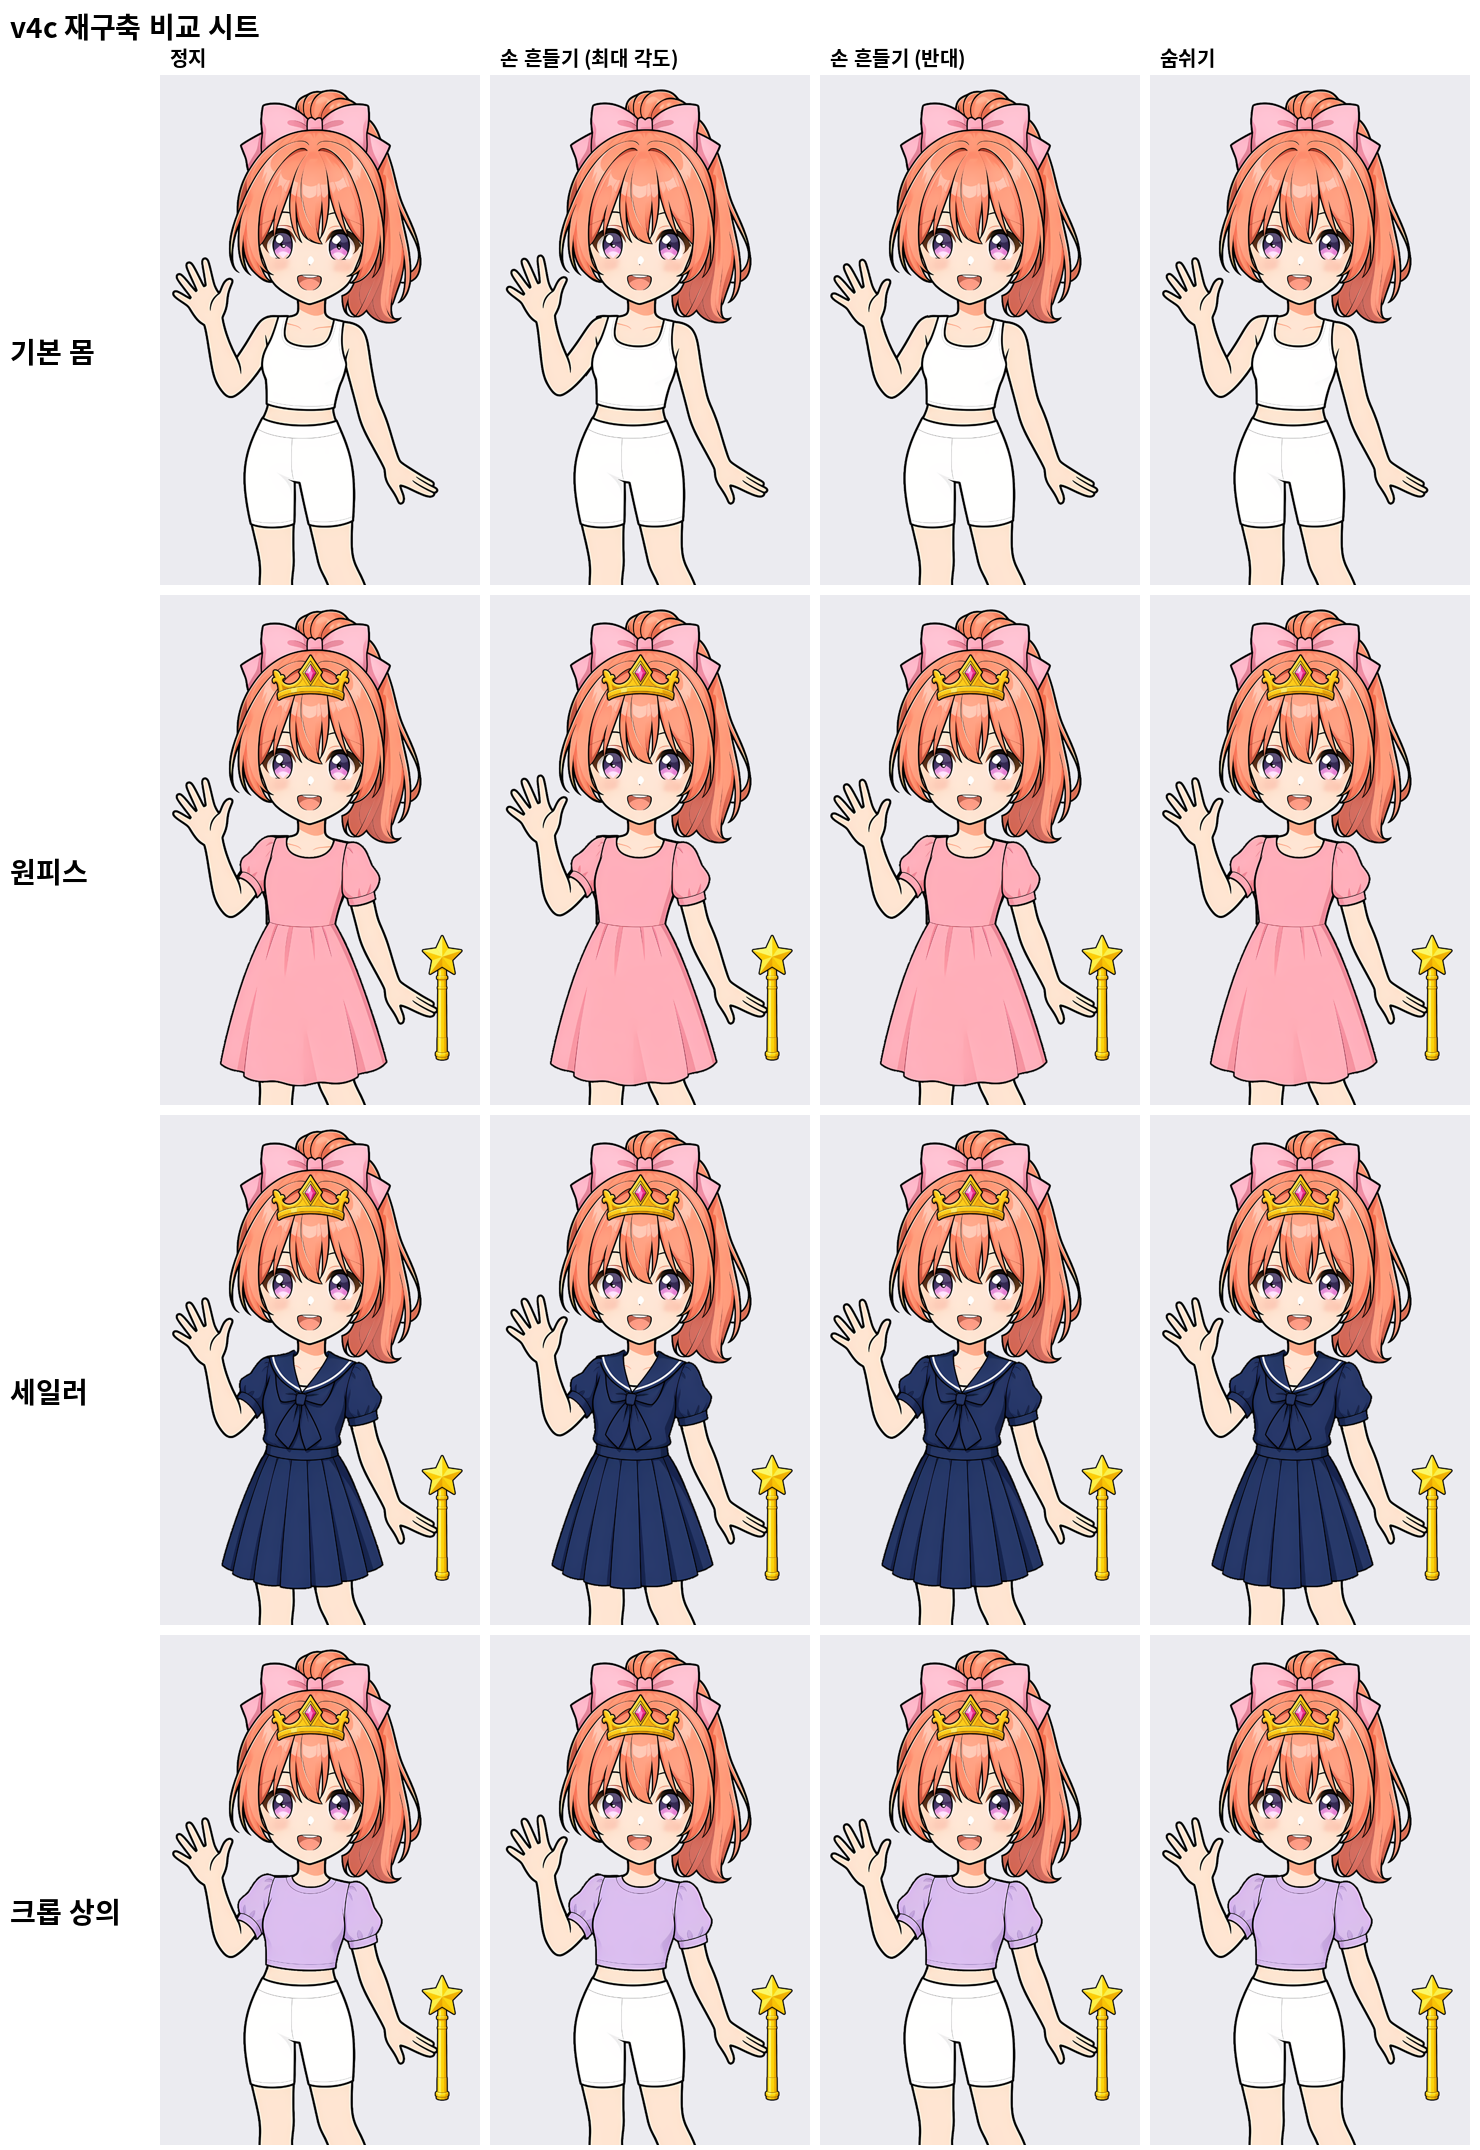
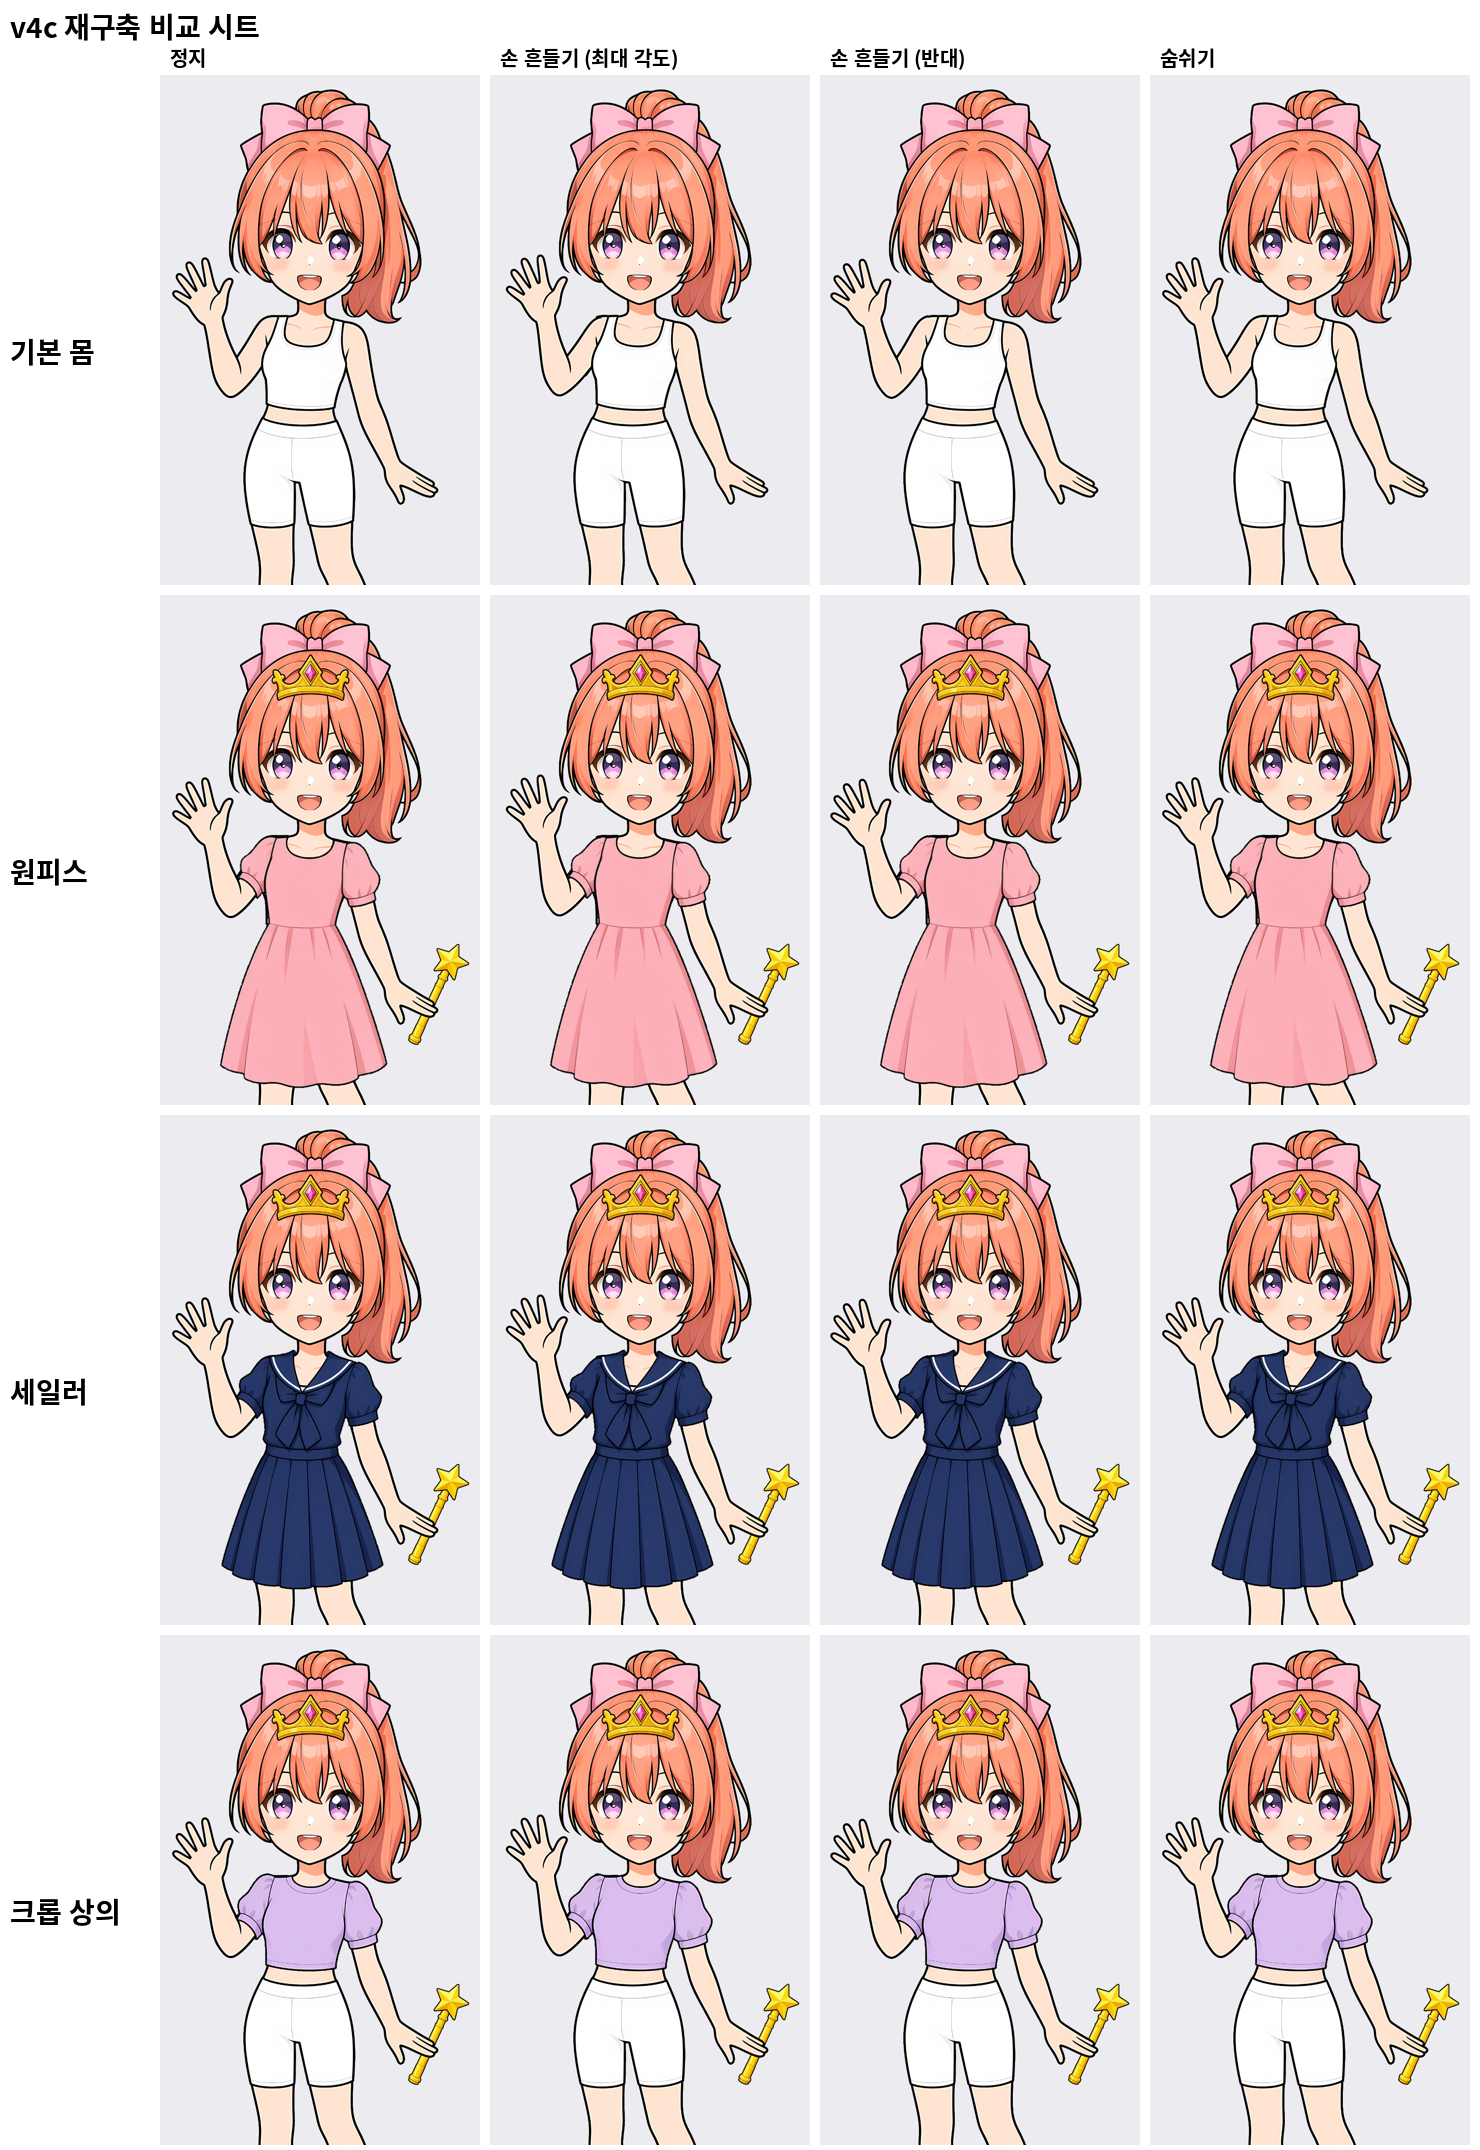
v4c: 400% 검수 qa7·전체 검사 결과 기록

diff --git a/public/v4c-demo/src/qa7/z7.py b/public/v4c-demo/src/qa7/z7.py
@@ -1,0 +1,16 @@
+from PIL import Image,ImageDraw,ImageFont
+fp='/usr/share/fonts/opentype/noto/NotoSansCJK-Bold.ttc';H=ImageFont.truetype(fp,40)
+Q=[('dress','wave_000','치맛단',(330,1060,530,1220)),('dress','wave_012','치맛단',(330,1060,530,1220)),('dress','idle_060','치맛단',(330,1060,530,1220)),
+('dress','wave_000','요술봉',(760,700,900,1000)),('dress','wave_012','요술봉',(760,700,900,1000)),('dress','wave_000','티아라',(430,130,650,260)),
+('none','wave_012','겨드랑이',(385,630,445,720)),('dress','wave_012','엄지',(300,455,390,545)),('dress','wave_012','소매',(340,600,480,720)),
+('top','wave_012','소매단',(340,600,480,720)),('crop','wave_012','소매단',(340,600,480,720)),('crop','wave_000','크롭 c27e 밑단',(330,800,700,960))]
+ims=[]
+for o,f,l,b in Q:
+  im=Image.new('RGB',(1100,1600),(255,0,255));x=Image.open(f'{o}_{f}.png').convert('RGBA');im.paste(x,(0,0),x)
+  ims.append((f'{o} {f} {l}',im.crop(b).resize(((b[2]-b[0])*4,(b[3]-b[1])*4),Image.NEAREST)))
+cols=3;import math;rows=math.ceil(len(ims)/cols)
+cw=max(i.width for _,i in ims)+30;rh=max(i.height for _,i in ims)+70
+S=Image.new('RGB',(cw*cols,rh*rows),(255,255,255));d=ImageDraw.Draw(S)
+for k,(t,i) in enumerate(ims):
+  x,y=(k%cols)*cw,(k//cols)*rh;d.text((x,y),t,font=H,fill=0);S.paste(i,(x,y+60))
+S.save('/workspace/ssb/public/v4c-demo/src/qa7/zoom400_qa7.png');print(S.size)

diff --git a/public/v4c-demo/src/progress.md b/public/v4c-demo/src/progress.md
@@ -83,3 +83,5 @@
 - 원피스 재생성 dress_c27f(GenerateImage, c27 몸+c27b 참조). 재생성 g도 시도했으나 생성기 특성상 밑단 안쪽 밝은 테가 남음(테 크기 b 평균~15, f ~12, g ~10).
 - ESRGAN이 테를 키움(g 177→215) → 원피스만 2배 LANCZOS(처리값)로 교체, 마스크 o_d27f(outfit27 기본값). 4180 check_frames 640프레임 통과(이음새 0).
 - 요술봉: prop_rot(크기·회전 -25°·이동)로 손가락 뒤를 지나게 배치, 손가락만 마스크로 뗀 arm_R_fing 레이어를 봉 위에 둠.
+- 400% 검수(qa7/zoom400_qa7.png): 치맛단 연한 테 1px 육안으로 희미하게 남음(검사기 통과, 엄격 기준 미합격 가능). 요술봉: 봉이 손가락 뒤로 지나가나 손이 편 손이라 '쥔' 느낌 약함. 겨드랑이·엄지·소매·티아라·크롭/세일러 c27e 소매단 이상 없음.
+- check_frames 4180(v4c) 640 통과, 4179(v4b·v3) 각 640 통과. vitest 63/63. cmp_build: 데모 외 차이는 sw.js(프리캐시 목록)뿐. 프리뷰 종료.
